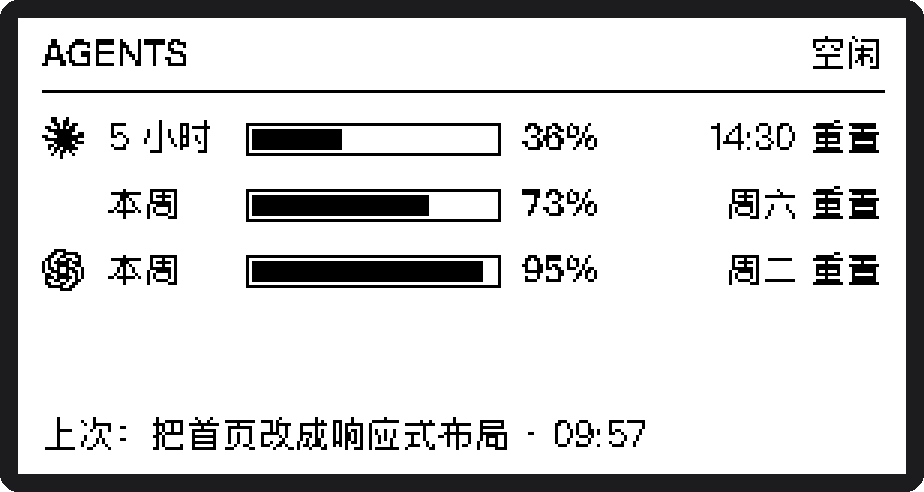
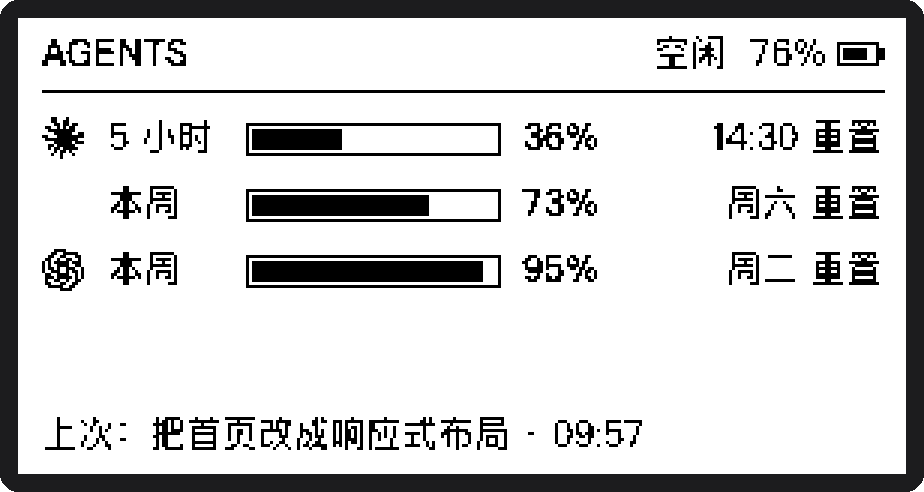
Render the README's example frames with the app's own renderer
The pictures came from the Python version, which no longer draws what the
app does: no charge in the corner, the old waiting time. A small RenderSamples
target draws them with BoardCore, and render_samples.py only frames them.
The app's release build names its product, so it leaves that target out.

diff --git a/app/Sources/RenderSamples/main.swift b/app/Sources/RenderSamples/main.swift
@@ -1,0 +1,30 @@
+// Draws the README's example frames from made-up data, with the renderer the app uses,
+// so the pictures match the screen dot for dot. scripts/render_samples.py runs it.
+//
+//     swift run --package-path app RenderSamples <folder> <unix time>
+
+import BoardCore
+import Foundation
+
+let arguments = CommandLine.arguments
+guard arguments.count == 3, let now = Double(arguments[2]) else {
+    FileHandle.standardError.write(Data("usage: RenderSamples <folder> <unix time>\n".utf8))
+    exit(2)
+}
+let folder = URL(fileURLWithPath: arguments[1])
+let hour = 3600.0, day = 86400.0
+let usage: Usage = [
+    "claude": AgentUsage(windows: [fiveHour: QuotaLeft(left: 36, resetsAt: now + 4.3 * hour), sevenDay: QuotaLeft(left: 73, resetsAt: now + 2 * day)],
+                         observedAt: now),
+    "codex": AgentUsage(windows: [sevenDay: QuotaLeft(left: 95, resetsAt: now + 5 * day)], observedAt: now),
+]
+// The waiting example has waited a few minutes, so its time reads as it would on a desk.
+for (kind, waited) in [("list", 0.0), ("wait", 5 * 60.0), ("idle", 0.0)] {
+    let view = buildView(sampleBoard(kind, now: now - waited), now: now, usage: usage, power: samplePower)
+    do {
+        try render(view).png.write(to: folder.appendingPathComponent("\(kind).png"))
+    } catch {
+        FileHandle.standardError.write(Data("\(kind): \(error)\n".utf8))
+        exit(1)
+    }
+}

diff --git a/app/Package.swift b/app/Package.swift
@@ -10,6 +10,7 @@ let package = Package(
     targets: [
         .target(name: "BoardCore"),
         .executableTarget(name: "AgentBoard", dependencies: ["BoardCore"]),
+        .executableTarget(name: "RenderSamples", dependencies: ["BoardCore"]),  // the README's pictures
         .testTarget(name: "BoardCoreTests", dependencies: ["BoardCore"]),
     ]
 )

diff --git a/scripts/render_samples.py b/scripts/render_samples.py
@@ -3,37 +3,29 @@
 
     python3 scripts/render_samples.py
 
-Everything shown is made up (see sample_board in agent_board/render.py), so the
-pictures never contain anything from the machine they were rendered on.
+The frames come from the app's own renderer (app/Sources/RenderSamples), so they
+match the screen dot for dot; this script only enlarges them and puts them in a
+bezel. Everything shown is made up (see sampleBoard in app/Sources/BoardCore/View.swift),
+so the pictures never contain anything from the machine they were rendered on.
+Needs the Swift toolchain and Pillow.
 """
 
 from __future__ import annotations
 
+import os
+import subprocess
 import sys
+import tempfile
 import time
 from pathlib import Path
 
 from PIL import Image, ImageDraw
 
 ROOT = Path(__file__).resolve().parent.parent
-sys.path.insert(0, str(ROOT))
-
-from agent_board.render import build_view, render, sample_board  # noqa: E402
-from agent_board.usage import FIVE_HOUR, SEVEN_DAY  # noqa: E402
-
 SCALE = 3  # whole multiples only: the frame is 1-bit and must stay sharp
 BEZEL = 18
 BEZEL_COLOUR = (28, 28, 30)
 NOW = time.mktime((2026, 10, 8, 10, 12, 0, 0, 0, -1))  # a Thursday morning
-
-
-def usage() -> dict:
-    hour, day = 3600, 86400
-    return {
-        "claude": {"windows": {FIVE_HOUR: {"left": 36, "resets_at": NOW + 4.3 * hour},
-                               SEVEN_DAY: {"left": 73, "resets_at": NOW + 2 * day}}},
-        "codex": {"windows": {SEVEN_DAY: {"left": 95, "resets_at": NOW + 5 * day}}},
-    }
 
 
 def framed(frame: Image.Image) -> Image.Image:
@@ -47,11 +39,17 @@ def framed(frame: Image.Image) -> Image.Image:
 def main() -> None:
     out = ROOT / "docs" / "images"
     out.mkdir(parents=True, exist_ok=True)
-    for kind in ("list", "wait", "idle"):
-        view = build_view(sample_board(kind, NOW), NOW, None, usage())
-        path = out / f"{kind}.png"
-        framed(render(view)).save(path, optimize=True)
-        print(path.relative_to(ROOT))
+    with tempfile.TemporaryDirectory() as tmp:
+        # the fonts the app ships, from the repository
+        environment = {**os.environ, "AGENT_BOARD_RESOURCES": str(ROOT / "agent_board")}
+        result = subprocess.run(["swift", "run", "--package-path", str(ROOT / "app"), "RenderSamples", tmp, str(NOW)],
+                                env=environment, capture_output=True, text=True)
+        if result.returncode:
+            sys.exit(result.stdout + result.stderr)
+        for kind in ("list", "wait", "idle"):
+            path = out / f"{kind}.png"
+            framed(Image.open(Path(tmp) / f"{kind}.png")).save(path, optimize=True)
+            print(path.relative_to(ROOT))
 
 
 if __name__ == "__main__":

diff --git a/scripts/build_app.py b/scripts/build_app.py
@@ -54,7 +54,7 @@ def run(*command: str) -> str:
 
 def compile_app() -> Path:
     """The release binary: for both processor families, or for this machine's when that is all the toolchain does."""
-    build = ["swift", "build", "-c", "release", "--package-path", str(ROOT / "app")]
+    build = ["swift", "build", "-c", "release", "--package-path", str(ROOT / "app"), "--product", "AgentBoard"]
     both = ["--arch", "arm64", "--arch", "x86_64"]
     if subprocess.run([*build, *both], capture_output=True).returncode == 0:
         return Path(run(*build, *both, "--show-bin-path")) / "AgentBoard"

diff --git a/CONTRIBUTING.md b/CONTRIBUTING.md
@@ -66,7 +66,7 @@ AGENT_BOARD_HOME="$PWD/.dev-home" AGENT_BOARD_DRY_RUN=1 AGENT_BOARD_PORT=8766 py
 
 - App 只用系统自带的框架，Python 版运行时只依赖标准库和 Pillow，请不要引入新的依赖。
 - 改了行为就补测试。测试不访问网络，也不读写真实的用户目录。
-- 改了画面就重新生成 README 里的示例图：`python3 scripts/render_samples.py`。
+- 改了画面就重新生成 README 里的示例图：`python3 scripts/render_samples.py`。它用 App 自己的渲染器出图（`app/Sources/RenderSamples`），需要 Swift 工具链和 Pillow。
 - 不引入 Xcode 工程，用 Swift Package 构建。App 的图标由 `python3 scripts/make_app_icon.py` 生成。
 - 示例图和测试数据里不要出现真实的对话名称、路径或设备序列号。
 - 屏幕是纯黑白的，文字和图标不做抗锯齿；新增的画面元素请对齐 `Render.swift` 开头定义的网格。
